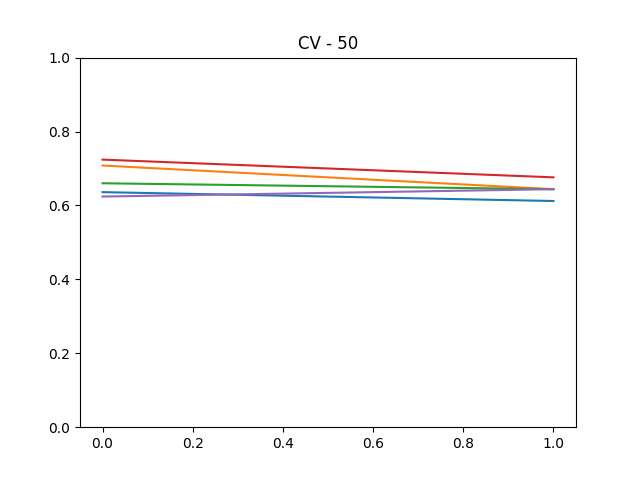
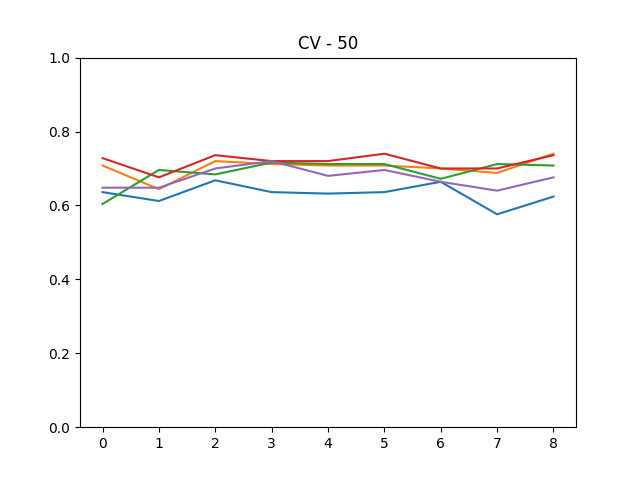
10.

diff --git a/stream-experiment.py b/stream-experiment.py
@@ -90,7 +90,7 @@ for n_components in used_features:
     plt.clf()
 
     # CV
-    stream = StreamFromFile("data/cv.npz", n_components=10, n_chunks=3, use_PCA=False)
+    stream = StreamFromFile("data/cv.npz", n_components=10, n_chunks=10, use_PCA=False)
     clfs = [
         sl.ensembles.SEA(GaussianNB(), n_estimators=5),
         sl.ensembles.SEA(KNeighborsClassifier(), n_estimators=5),
